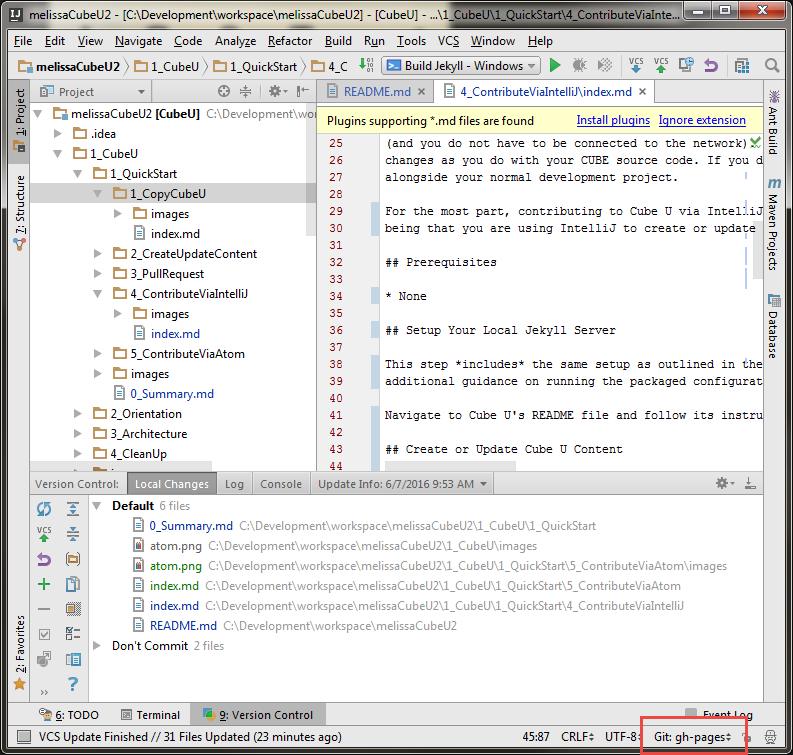
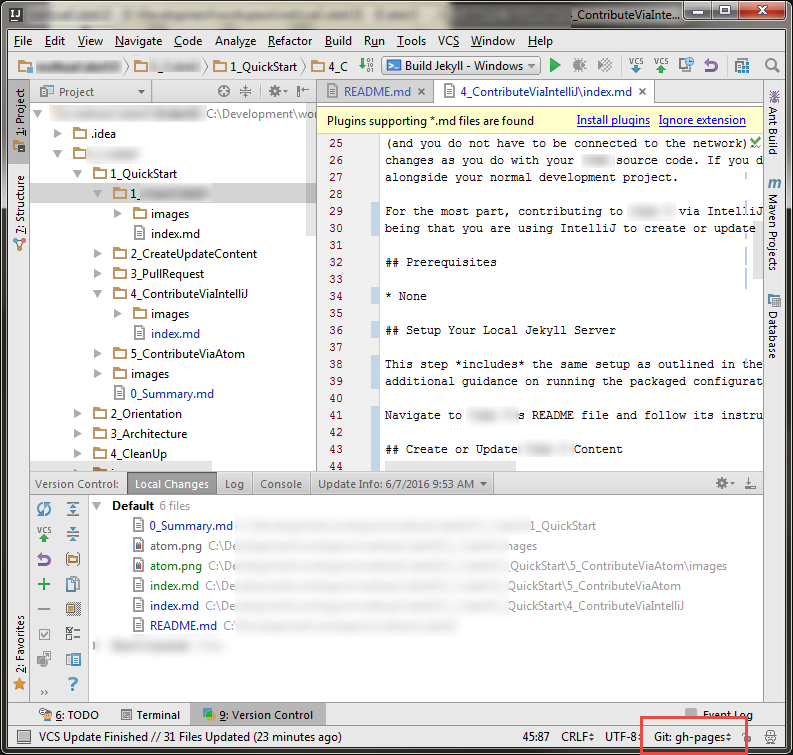
Remove references from outside of 1_SquirrelU

diff --git a/_includes/nav.html b/_includes/nav.html
@@ -1,30 +1,3 @@
-<!--<div style="color:white">-->
-	<!--<span class="glyphicon glyphicon-home"></span>-->
-	<!--COURSES-->
-<!--</div>-->
-<!--<div>-->
-	<!--<ul>-->
-		<!--{% for module in site.data.nav %}-->
-		<!--{% if module.subcategories != null %}                &lt;!&ndash; check to see if the data file has a submenu, and if so display it &ndash;&gt;-->
-		<!--<li class="dropdown">-->
-			<!--<a href="{{ module.url }}" class="dropdown-toggle" data-toggle="dropdown" data-hover="dropdown">-->
-				<!--{{ module.title }}<i class="fa fa-angle-down"></i>-->
-			<!--</a>-->
-			<!--<ul class="dropdown-menu">-->
-				<!--{% for subcategory in module.subcategories %}-->
-				<!--<li><a href="{{ subcategory.subhref }}">{{ subcategory.subtitle }}</a></li>-->
-				<!--{% endfor %}-->
-			<!--</ul>-->
-			<!--{% else %}-->
-			<!--<!— display the top level navigation for items that don’t have a submenu &ndash;&gt;-->
-		<!--<li>-->
-			<!--<a href="{{ site.github.url }}{{ module.href }}">{{ module.title }}</a>-->
-		<!--</li>-->
-		<!--{% endif %}-->
-		<!--{% endfor %}-->
-	<!--</ul>-->
-<!--</div>-->
-
 
 <!--Temporary for GitHub Training-->
 
@@ -35,7 +8,7 @@
 
 <div id="navlist">
 	<ul>
-		<li><a href="{{ site.github.url }}/3_Development/1_Setup/" style="color: white">Setting Up Your CUBE Environment</a></li>
+		<li><a href="{{ site.github.url }}/3_Development/1_Setup/" style="color: white">Setting Up Your Development Environment</a></li>
 			<ul>
 				<li><a href="{{ site.github.url }}/3_Development/1_Setup/1_Access/" style="color: white">Access Requests</a></li>
 				<li><a href="{{ site.github.url }}/3_Development/1_Setup/2_softwareInstall/" style="color: white">Software Installs</a></li>

diff --git a/_includes/readerguide.html b/_includes/readerguide.html
@@ -12,8 +12,8 @@ rough reading time calculation - using a technical rate of 100 wpm
         <div class="col-sm-6"></div>
 
         <div class="col-sm-6, pull-right">
-            {% if site.github.owner_name != blank and site.github.owner_name !="BUE" %}
-                <a href="https://github.gaig.com/{{ site.github.owner_name }}/CubeU/edit/gh-pages/{{ site.branch }}/{{ page.path }}" type="button"
+            {% if site.github.owner_name != blank and site.github.owner_name !="zippyzsquirrel" %}
+                <a href="https://github.com/{{ site.github.owner_name }}/squirrel-u/edit/gh-pages/{{ site.branch }}/{{ page.path }}" type="button"
                    class="btn btn-primary" data-toggle="tooltip" title="Go directly to GitHub to edit this content">
                     <span class="glyphicon glyphicon-pencil"></span>
                 </a>

diff --git a/js/search.js b/js/search.js
@@ -1,5 +1,5 @@
 (function() {
-    jQuery(function(cubeuApp) {
+    jQuery(function(squirreluApp) {
         // Initalize lunr search fields. Fields with boost matches are more important.
         window.idx = lunr(function () {
             this.field('id');
@@ -12,7 +12,7 @@
         var baseUrl = document.location.origin;
 
         if (baseUrl.indexOf("localhost") === -1 && baseUrl.indexOf("127.0.0.1") === -1) {
-            baseUrl += document.location.pathname.replace(/^(\/pages\/\w+)\b.*$/,"$1")+"/CubeU";    //  will contain /pages/{BU or user}
+            baseUrl += document.location.pathname.replace(/^(\/pages\/\w+)\b.*$/,"$1")+"/squirrel-u";    //  will contain /pages/{BU or user}
         }
 
         // Download the data from the JSON file we generated

diff --git a/_includes/footer.html b/_includes/footer.html
@@ -1,6 +1,6 @@
 <footer class="site-footer">
   <div class="wrapper col-sm-12">
-    <h2 class="footer-heading">Cube U</h2>
+    <h2 class="footer-heading">Squirrel U</h2>
 
     <div class="footer-col-wrapper">
       <div class="footer-col ">

diff --git a/1_SquirrelU/3_ContributeViaIDE/1_ContributeViaIntelliJ/index.md b/1_SquirrelU/3_ContributeViaIDE/1_ContributeViaIntelliJ/index.md
@@ -6,7 +6,7 @@ author:         Kohl
 status:     
 category:
 contenttype:
-tags:           Local CubeU, Setup, Jekyll, IntelliJ, Github
+tags:           Local SquirrelU, Setup, Jekyll, IntelliJ, Github
 ---
 
 {% include toc.html %}
@@ -15,18 +15,18 @@ tags:           Local CubeU, Setup, Jekyll, IntelliJ, Github
 
 ![](images/intellij.png)
 
-Cube U's Quick Start Guide outlines the easiest and quickest way to start contributing to Cube U for the most generic user. However,
-if you are a developer with an IDE such as IntelliJ, you may prefer to work in that environment. The success of Cube U
-relies on the active contributions of developers, so we've made it very easy for you to contribute this way. The Cube U project comes
-with packaged configurations to get a local Jekyll environment up and running so that you can update and render the project locally (Cube
-U utilizes GitHub Pages to render the Cube U site...and GitHub Pages uses Jekyll to do this).
+Squirrel U's Quick Start Guide outlines the easiest and quickest way to start contributing to Squirrel U for the most generic user. However,
+if you are a developer with an IDE such as IntelliJ, you may prefer to work in that environment. The success of Squirrel U
+relies on the active contributions of developers, so we've made it very easy for you to contribute this way. The Squirrel U project comes
+with packaged configurations to get a local Jekyll environment up and running so that you can update and render the project locally (Squirrel
+U utilizes GitHub Pages to render the Squirrel U site...and GitHub Pages uses Jekyll to do this).
 
-It is advantageous to have your own local Jekyll server for updating Cube U content, which can make for a shorter development cycle
+It is advantageous to have your own local Jekyll server for updating Squirrel U content, which can make for a shorter development cycle
 (and you do not have to be connected to the network). This provides you with great flexibility to search/replace and review your
-changes as you do with your CUBE source code. If you desire, you can create an additional IntelliJ project and keep it open
+changes as you do with your normal source code. If you desire, you can create an additional IntelliJ project and keep it open
 alongside your normal development project.
 
-For the most part, contributing to Cube U via IntelliJ has the same workflow as outlined in the Quick Start Guide, with the main difference
+For the most part, contributing to Squirrel U via IntelliJ has the same workflow as outlined in the Quick Start Guide, with the main difference
 being that you are using IntelliJ to create or update content rather than doing so directly in the GitHub site.
 
 ## Prerequisites
@@ -35,26 +35,25 @@ being that you are using IntelliJ to create or update content rather than doing 
 
 ## Setup Your Local Jekyll Server
 
-This step *includes* the same setup as outlined in the Quick Start Guide (**Create (Fork) Your Copy of Cube U**), with
+This step *includes* the same setup as outlined in the Quick Start Guide (**Create (Fork) Your Copy of Squirrel U**), with
 additional guidance on running the packaged configurations to get your local server up and running.
 
-Navigate to Cube U's README file and follow its instructions: <https://github.gaig.com/BUE/CubeU/blob/gh-pages/README.md>
+Navigate to Squirrel U's README file and follow its instructions: <https://github.com/zippyzsquirrel/squirrel-u/blob/gh-pages/README.md>
 
-## Create or Update Cube U Content
+## Create or Update Squirrel U Content
 
 Before making updates, make sure that your branch is set to gh-pages in IntelliJ.  If it isn't, update accordingly.
 
 ![](images/IntelliJGHPagesBranch.png){: .image}
 
 **NOTE:** If your team is in the habit of using named branches for joint development, you
-won't want to do that for Cube U, you'll always want to use gh-pages. If you need
+won't want to do that for Squirrel U, you'll always want to use gh-pages. If you need
 to compartmentalize work on various features, use stash/unstash.  We are not currently committing to master so you will notice that master is
 way behind. We may push all changes there at some point, but it really serves no purpose.
 
-At this point, you can update or create content within the project structure in the same way you are familiar with doing for
-your CUBE project work.
+At this point, you can update or create content within the project structure in the same way you are familiar with any other github projects.
 
-Remember that all Cube U content uses the Markdown syntax with a standard Content Template, which can be
+Remember that all Squirrel U content uses the Markdown syntax with a standard Content Template, which can be
 found on the **Content Template** page.  Simply copy the template and paste it into your new file when creating new content pages.
 
 **Not familiar with Markdown?** Markdown is a very simple markup language that provides the ability to write plain text content
@@ -62,12 +61,12 @@ for web pages. Visit the **Markdown Overview** page for more information.
 
 ### Test on Your Local Server
 
-Before you submit a Pull Request on your changes, you'll want to see how they will look in Cube U. *Always* test your changes
+Before you submit a Pull Request on your changes, you'll want to see how they will look in Squirrel U. *Always* test your changes
 before submitting your content for approval.
 
 If you have set up your local server as outlined above and your server is running, you should usually be able to see your changes right
 away by navigating to <http://127.0.0.1:4000>. Your local server for the most part will render like content will on your Fork
-and on BUE. However, always remember that the local Jekyll server may contain features not yet available in the 
+and on the main repository. However, always remember that the local Jekyll server may contain features not yet available in the 
 packaged Enterprise GitHub.
 
 Initial startup involves building the content hierarchy, which requires two passes
@@ -84,11 +83,11 @@ that will rebuild the directory hierarchy.
 * If you change page content or any styles (css or sass) you will *not* need to
 restart your server. Jekyll performs an incremental build, which is quick.
 
-Continue making updates until the content is rendered correctly and your changes meet all Cube U standards.
+Continue making updates until the content is rendered correctly and your changes meet all Squirrel U standards.
 
 ### Commit and/or Push
 
-Commit and/or Push your changes to your Cube U personal fork using the same IntelliJ mechanics as you would any other source code for CUBE. If
+Commit and/or Push your changes to your Squirrel U personal fork using the same IntelliJ mechanics as you would any other source code. If
 you need help with this, you can take a look at the **Code, Commit and Push** page. **Make sure that you are pushing to *origin: gh-pages* **
 (*not* "upstream" or "master"!).
 
@@ -118,10 +117,10 @@ ignored.
 
 Creating a Pull Request is outlined in the Quick Start Guide (**Submit Cube U Content for Approval**). After you have pushed
 all of the changes you would like included in your Pull Request, you can complete these steps to request that your changes be
-merged into BUE ("official" Cube U).
+merged.
 
 **You can also create a Pull Request directly in IntelliJ.**  See the sub-section "In IntelliJ" under "Create a Pull Request" in
-the **Pull Request and Review** page.  The **Base fork** will be "BUE:CUBE" and the **Base branch** will be "gh-pages" (*not* master!).
+the **Pull Request and Review** page.  The **Base fork** will be where you want to merge and the **Base branch** will be "gh-pages" (*not* master!).
 
 ## Optional Plug-ins
 

diff --git a/1_SquirrelU/3_ContributeViaIDE/2_ContributeViaAtom/index.md b/1_SquirrelU/3_ContributeViaIDE/2_ContributeViaAtom/index.md
@@ -6,7 +6,7 @@ author:         Kohl
 status:
 category:       
 contenttype:
-tags:           Local CubeU, Setup, Jekyll, IntelliJ, Atom, Github
+tags:           Local, Setup, Jekyll, IntelliJ, Atom, Github
 ---
 
 {% include toc.html %}
@@ -15,24 +15,24 @@ tags:           Local CubeU, Setup, Jekyll, IntelliJ, Atom, Github
 
 ![](images/atom.png)
 
-Cube U's Quick Start Guide outlines the easiest and quickest way to start contributing to Cube U for the most generic of users.
+Squirrel U's Quick Start Guide outlines the easiest and quickest way to start contributing to Squirrel U for the most generic of users.
 
-Users without an IntelliJ licenses may find that the Atom Editor is a fitting alternative for editing and promoting Cube U changes.
+Users without an IntelliJ licenses may find that the Atom Editor is a fitting alternative for editing and promoting Squirrel U changes.
 
 Atom was created by the GitHub team and is supported by an active community of
 plugin contributors. Atom does provide a nice development environment with
 powerful plugins, such as Markdown linters. We are planning to package an Atom
-setup for CubeU in PI8.
+setup for Squirrel.
 
 ## Prerequisites
-* Setting up to contribute via IntelliJ starts with forking a copy of Cube U from GitHub as outlined in the **Create (Fork)
-Your Copy of Cube U** page. Complete the steps as outlined on that page before continuing
+* Setting up to contribute via IntelliJ starts with forking a copy of Squirrel U from GitHub as outlined in the **Create (Fork)
+Your Copy of Squirrel U** page. Complete the steps as outlined on that page before continuing
 
 ## Steps
 
 
 ## For Further Reading
 
-* To learn more about Cube U "under the hood", visit the **Architecture** section of Cube where we explain some of the underlying
-technologies use to make Cube U work
+* To learn more about Squirrel U "under the hood", visit the **Architecture** section of Squirrel where we explain some of the underlying
+technologies use to make Squirrel U work
 

diff --git a/index.md b/index.md
@@ -22,18 +22,18 @@ tags:           Welcome, Squirrel University
 <div class="row">
 
 <div class="col-sm-12 col-md-6 col-lg-4 trail" style="padding: 20px 20px 0px 5px;">
-    <a href="{{ site.github.url }}/1_CubeU/0_Summary/">
+    <a href="{{ site.github.url }}/1_SquirrelU/0_Summary/">
         <img src="images/Acorn1.png" alt="Contributing"></a>
 </div>
 
 <div class="col-sm-12 col-md-6 col-lg-4 trail" style="padding: 20px 20px 0px 5px;">
-	<a href="{{ site.github.url }}/3_Development/2_VersionControlSystem/0_Summary/">
+	<a href="{{ site.github.url }}/1_SquirrelU/4_GitHub/0_Summary/">
 		<img src="images/Acorn2.png" alt="Learn GitHub"></a>
 </div>
 
 <div class="col-sm-12 col-md-6 col-lg-4 trail" style="padding: 20px 20px 0px 5px;">
-	<a href="{{ site.github.url }}/3_Development/1_Setup/0_Summary/">
-		<img src="images/Acorn1.png" alt="CUBE Setup"></a>
+	<a href="{{ site.github.url }}/1_SquirrelU/5_Nuts/1_Acorn/0_Summary/">
+		<img src="images/Acorn1.png" alt="Acorn Info"></a>
 </div>
 
 </div>
